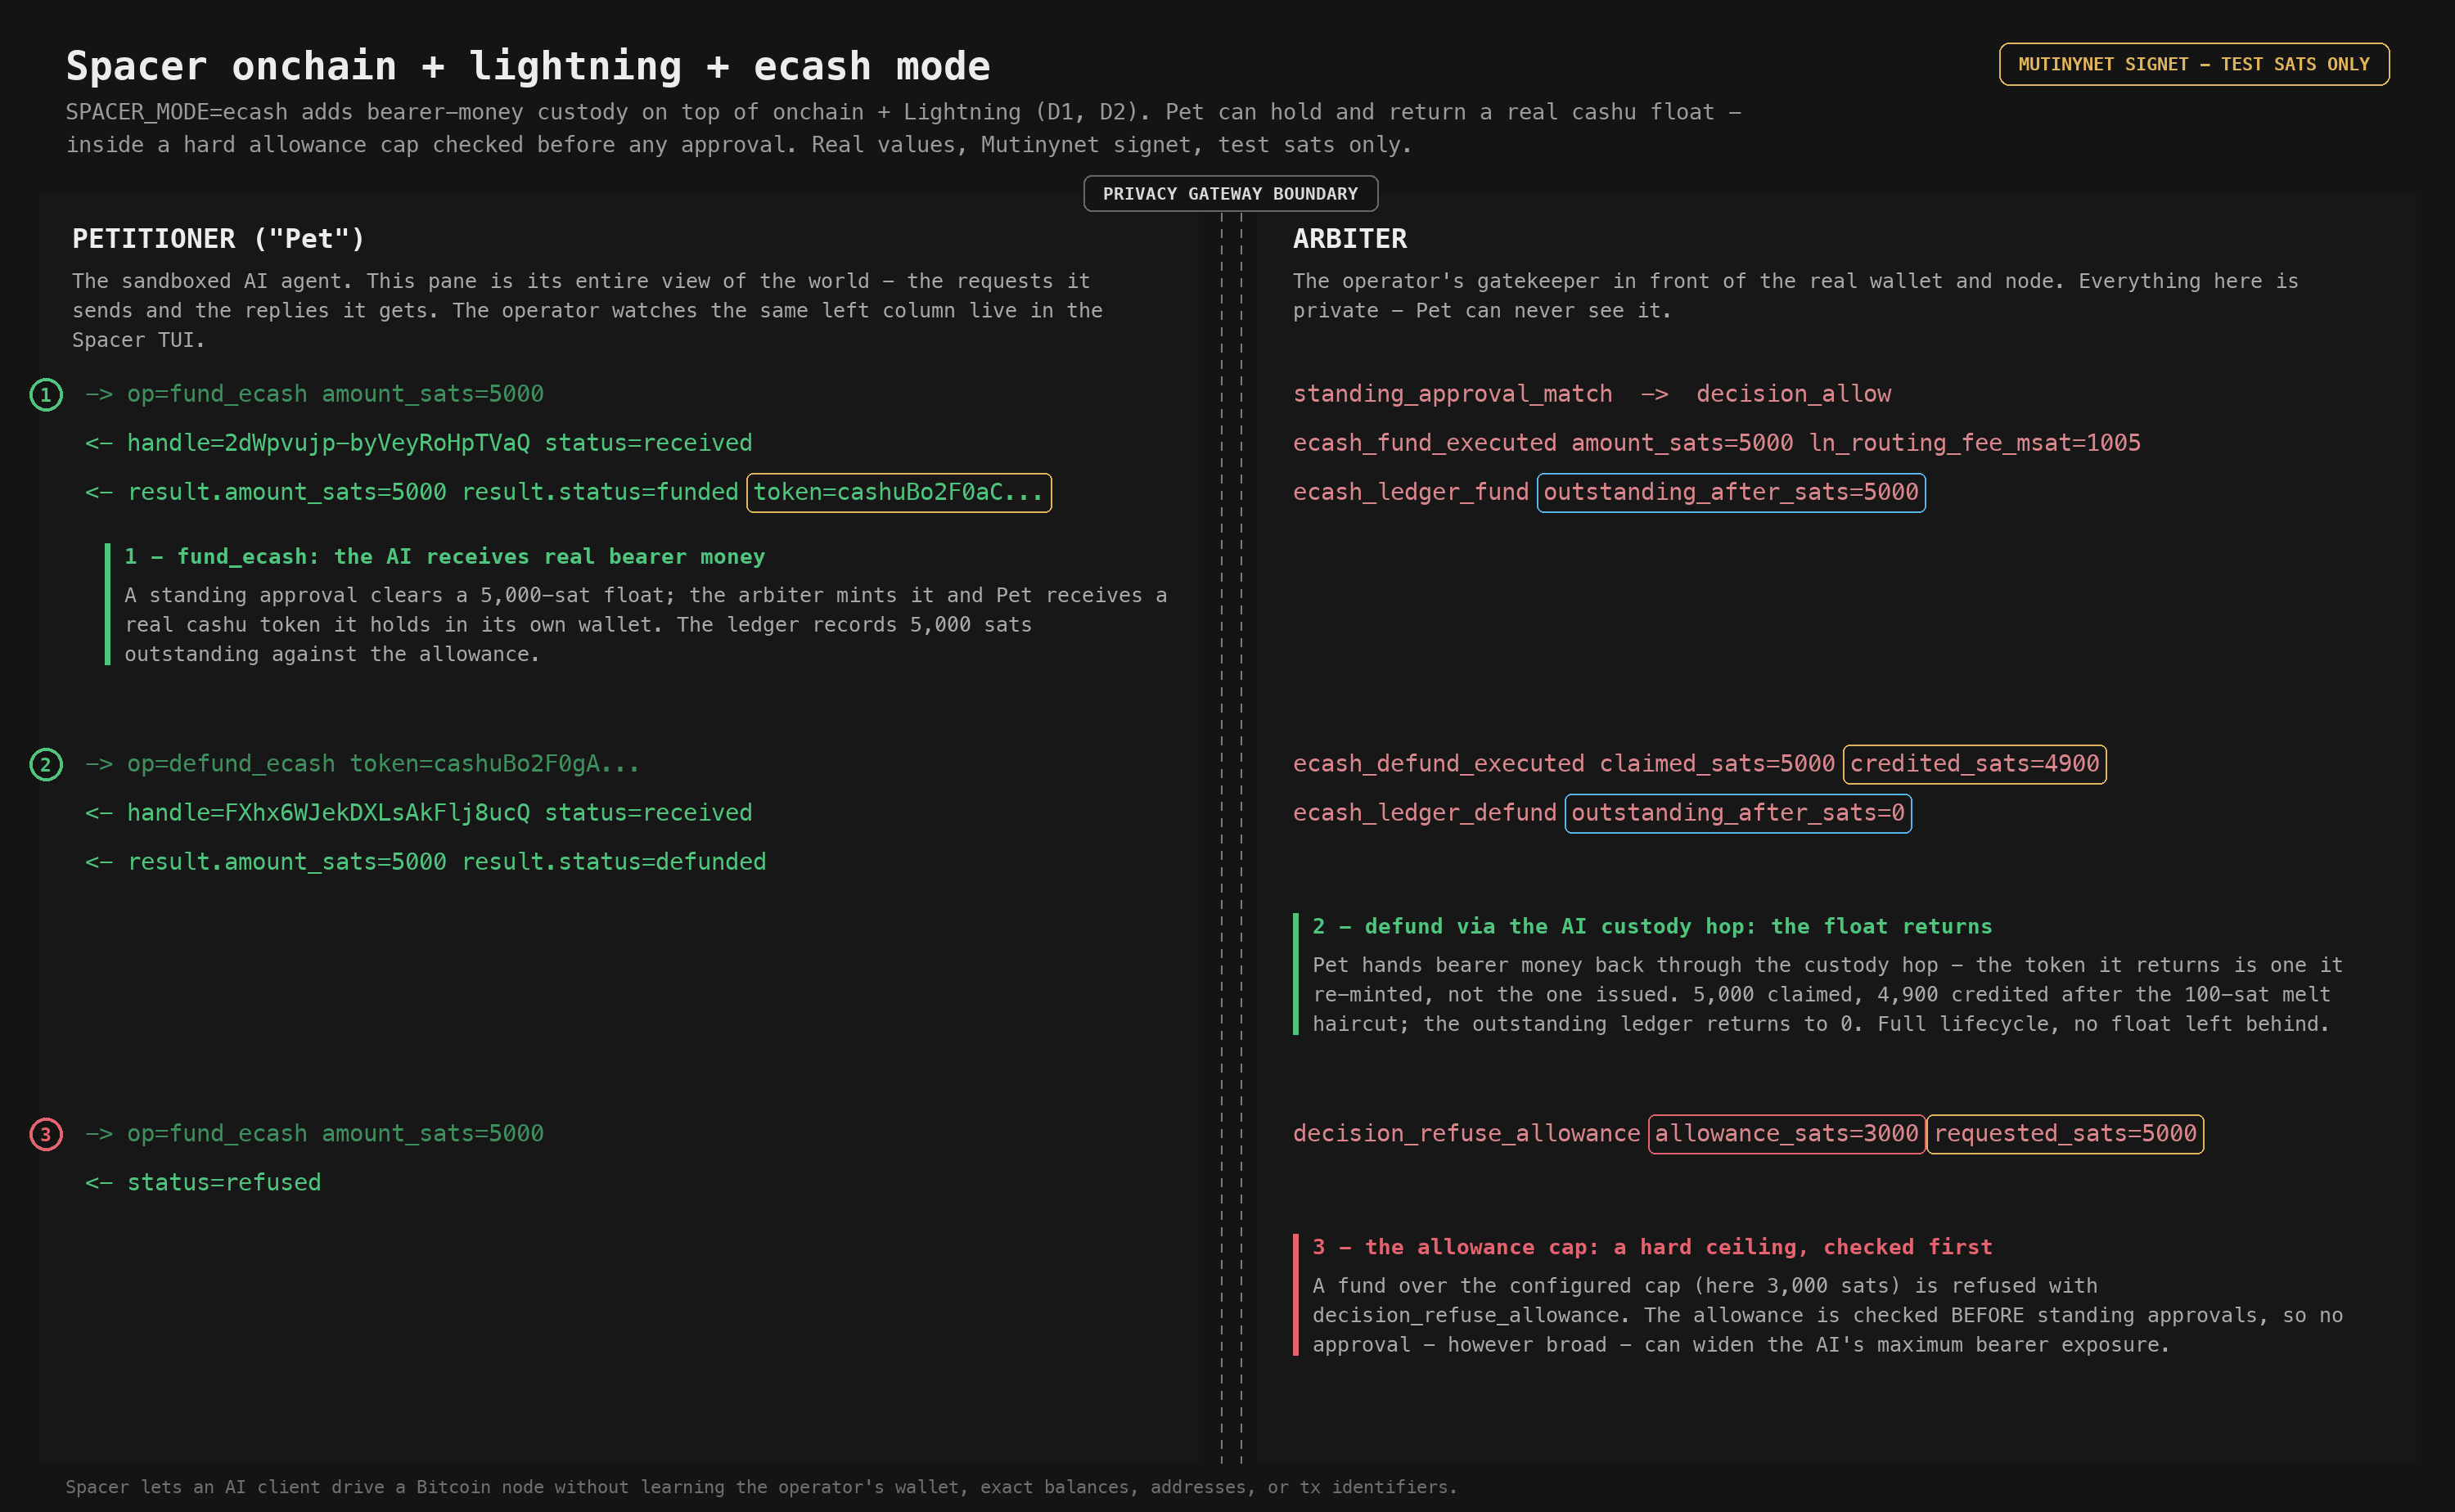
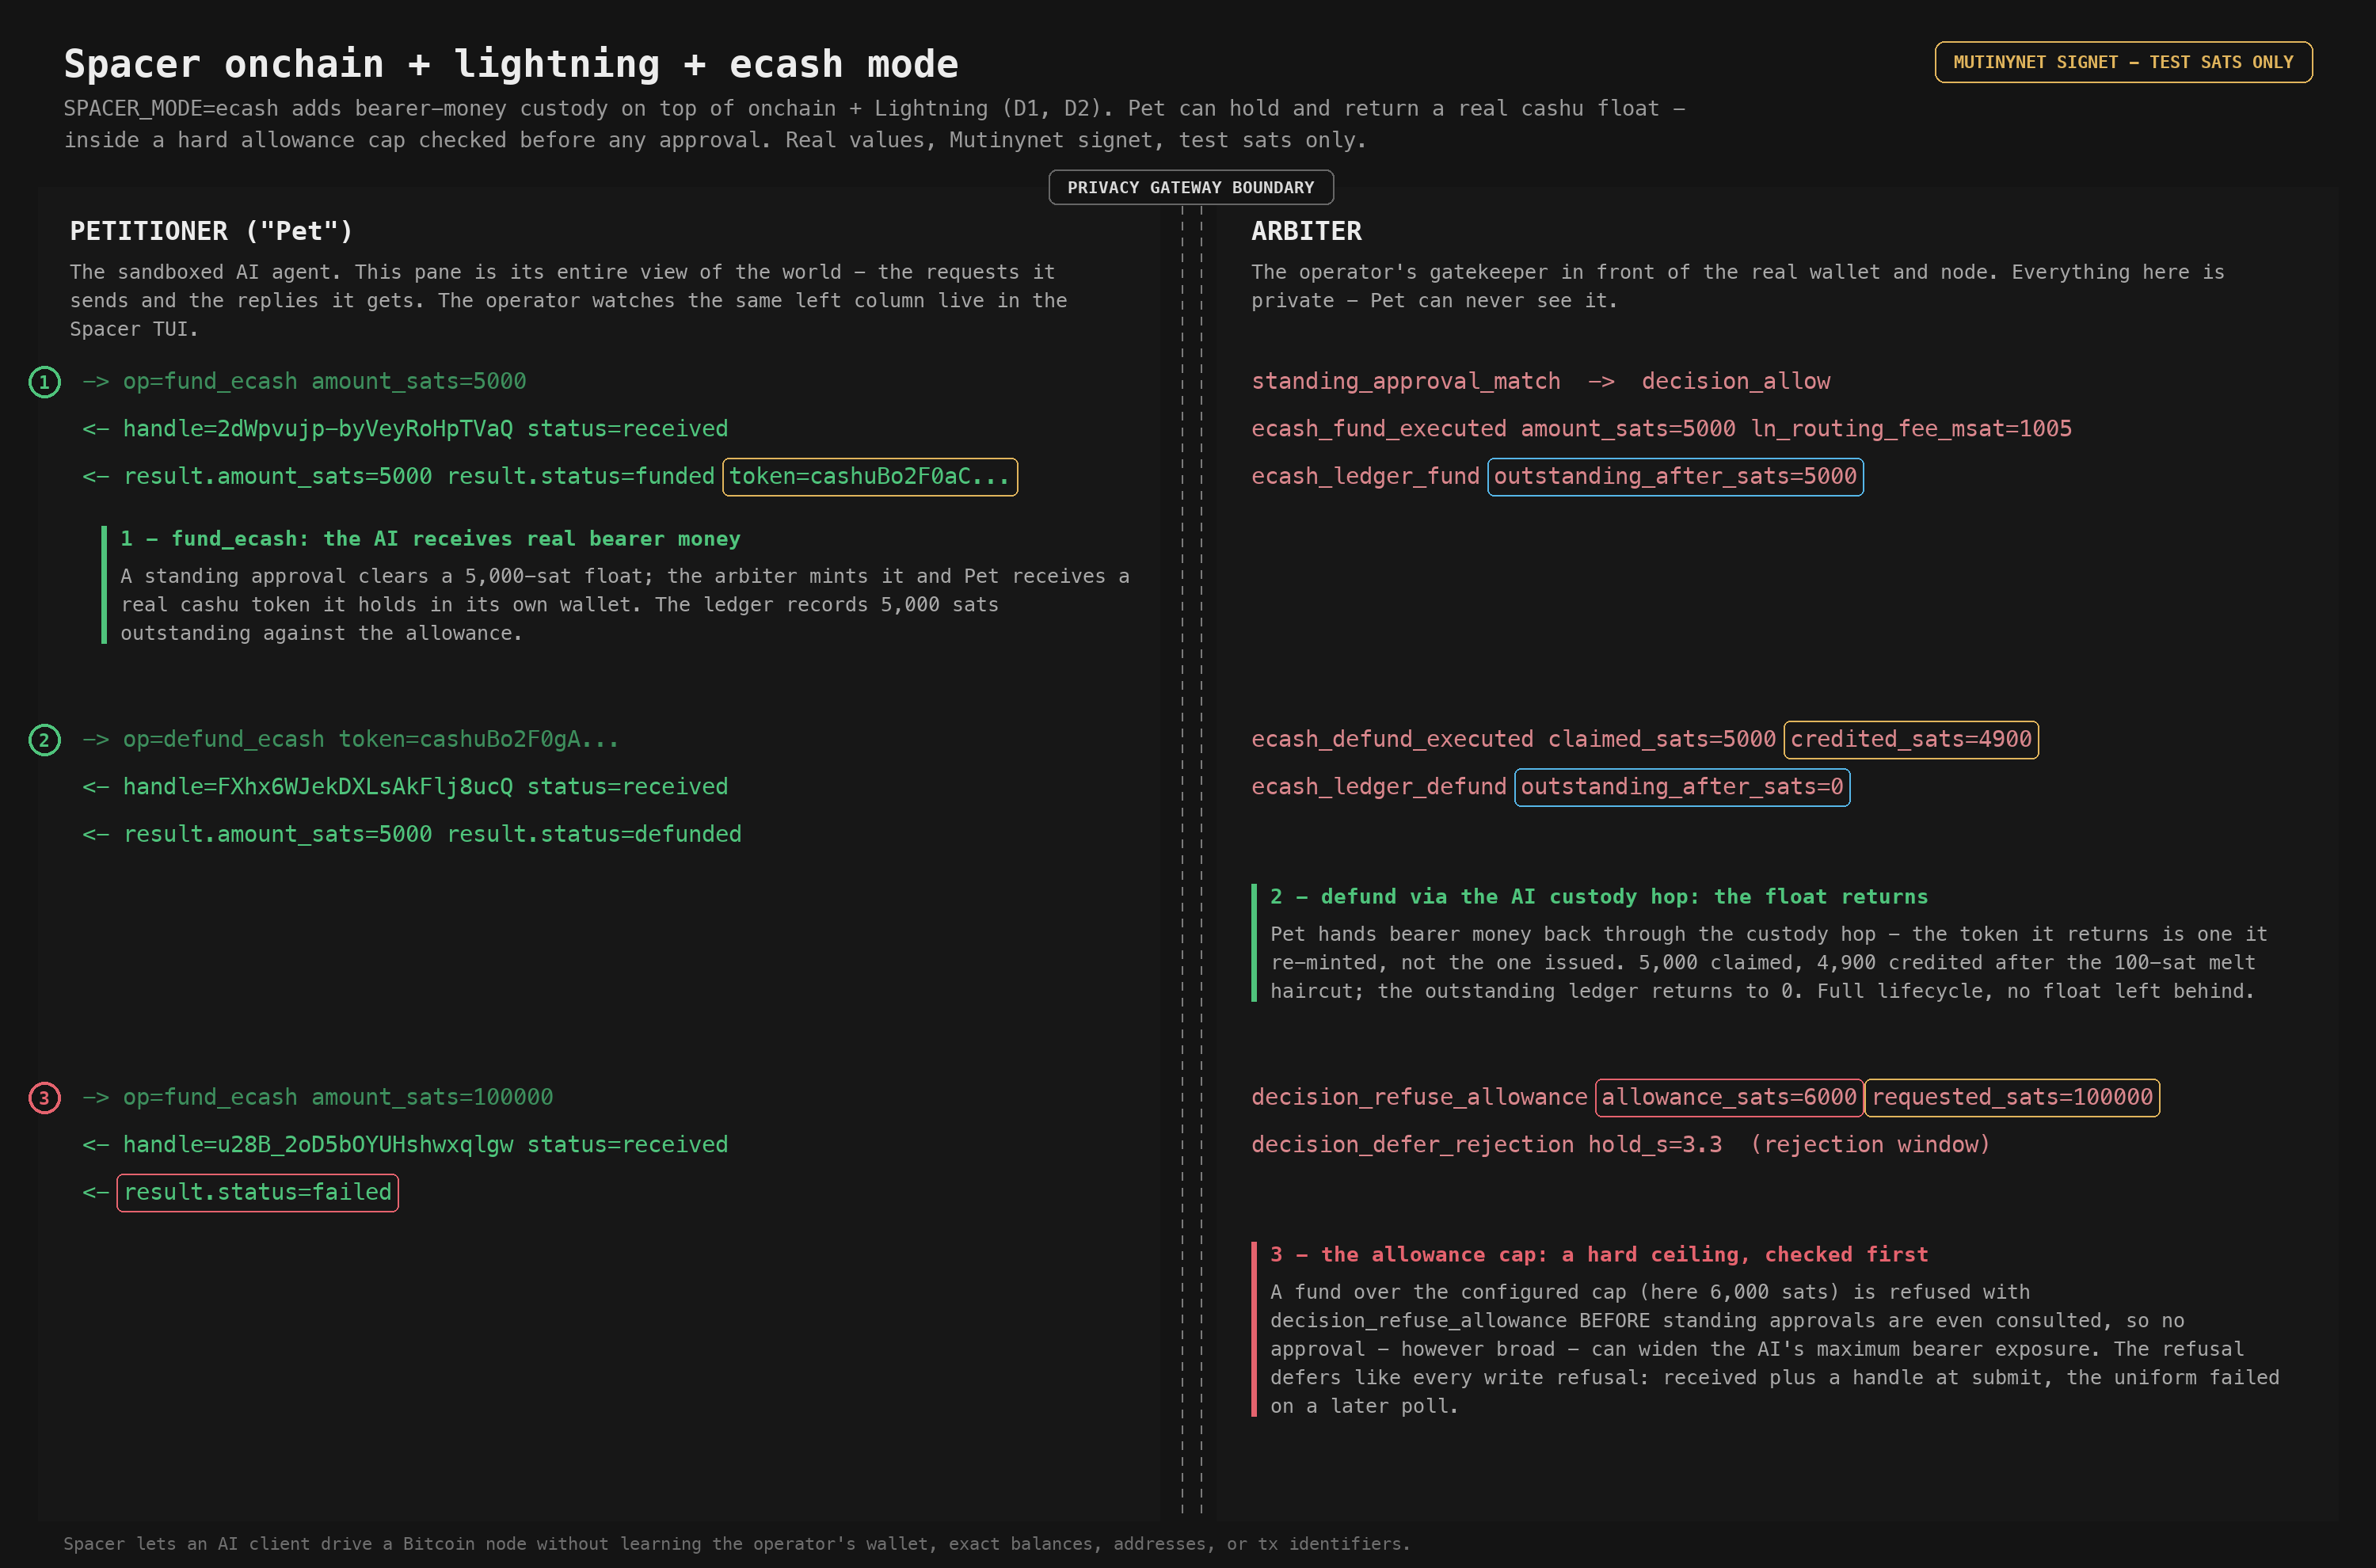
demo: reconcile mode-gate and allowance beats with deferred refusals (sp-tb0)
The D1/D2/D3 refusal beats still showed the pre-sp-tb0 synchronous
status=refused wire shape: the captures were built from a worktree that
predated e36bdf3 (defer gate refusals through the result registry), and
the builder's smoke asserted the old behavior - it failed against
current main. With the T1 demo now showing deferred refusals, the suite
contradicted itself.

- live_mode_demo_runner: _refuse_mode_records now drives the deferred
  refusal through delivery (received-ack, force-drain the rejection
  window, one poll -> uniform failed) and the smoke/build assert the
  full chain including decision_defer_rejection. Captures rebuilt.
- refuse-allowance source slice recaptured fresh against the live
  ecash-mode gateway (allowance 6000, requested 100000, deferred
  received-then-failed; zero sats moved) replacing the 2026-07-10
  pre-deferral slice; provenance updated.
- D1/D2/D3 docs and figures: refusal beats now show the real wire
  shape - received + handle at submit, the uniform failed one poll
  later - with the operator-side decision_refuse_* and
  decision_defer_rejection lines, cross-linked to T1.

Claude-Session: https://claude.ai/code/session_01D2Uw3WcjkDbTVjP9px6BFd

diff --git a/test-harness/scripts/live_mode_demo_runner.py b/test-harness/scripts/live_mode_demo_runner.py
@@ -65,7 +65,9 @@ sys.path.insert(0, str(REPO / "arbiter" / "src"))
 import audit      # noqa: E402
 import gateway    # noqa: E402
 import registry   # noqa: E402
+import results    # noqa: E402  (deferred-refusal delivery for refuse blocks)
 import state      # noqa: E402
+import timing     # noqa: E402  (drain the rejection past its window)
 import tui        # noqa: E402  (the real two-column operator console renderer)
 
 # Render geometry for the captured grid. Pinned (not terminal-detected) so a
@@ -79,13 +81,21 @@ _TUI_PAD = 6
 
 def _refuse_mode_records(mode, op, payload):
     """Start an isolated in-process arbiter under SPACER_MODE=mode, POST one
-    extension op, and return its [request_received, decision_refuse_mode,
-    disclosure] records verbatim from the arbiter's own audit log.
+    extension WRITE op, drive its deferred refusal through delivery, and
+    return the chain's records verbatim from the arbiter's own audit log.
 
-    No backend is touched: an extension op in a mode that disables it refuses
-    at the gateway mode gate before dispatch (gateway.py process_request), so
-    the event equals a production deployment's. Isolated temp audit/state/
-    registry paths keep this off the live captain-loop log."""
+    Since sp-tb0, a recognized-but-disabled extension WRITE does not refuse
+    synchronously: the mode gate audits decision_refuse_mode and DEFERS the
+    refusal (received-ack + opaque handle; the uniform failed surfaces on a
+    later poll after the rejection window). This helper captures the whole
+    petitioner-visible story: submit ack, then - after force-draining the
+    rejection past its window, exactly as the executor's result drainer
+    would - the one poll that returns the uniform failure.
+
+    No backend is touched: the mode gate fires before dispatch
+    (gateway.py process_request), so the events equal a production
+    deployment's. Isolated temp audit/state/registry paths keep this off
+    the live captain-loop log. Returns (ack, poll_resp, records)."""
     d = Path(tempfile.mkdtemp(prefix="mode-demo-"))
     saved_mode = os.environ.get("SPACER_MODE")
     os.environ["SPACER_MODE"] = mode
@@ -100,11 +110,22 @@ def _refuse_mode_records(mode, op, payload):
         t = threading.Thread(target=server.serve_forever, daemon=True)
         t.start()
         try:
-            body = json.dumps({"op": op, **payload}).encode()
-            req = urllib.request.Request(
-                f"http://127.0.0.1:{port}/", data=body,
-                headers={"Content-Type": "application/json"}, method="POST")
-            resp = json.loads(urllib.request.urlopen(req, timeout=10).read())
+            def post(obj):
+                req = urllib.request.Request(
+                    f"http://127.0.0.1:{port}/",
+                    data=json.dumps(obj).encode(),
+                    headers={"Content-Type": "application/json"},
+                    method="POST")
+                return json.loads(urllib.request.urlopen(req, timeout=10).read())
+
+            resp = post({"op": op, **payload})
+            # Deliver the deferred rejection past its window (what
+            # executor.deliver_due_results does once it elapses), then
+            # poll it back through the gateway - first poll on the
+            # handle, so the poll floor does not throttle it.
+            for _h, _res, _kind in timing.due_results(now=time.time() + 60.0):
+                results.deposit(_h, _res, kind=_kind)
+            poll_resp = post({"op": "poll", "handle": resp.get("handle")})
         finally:
             server.shutdown()
             server.server_close()
@@ -116,8 +137,10 @@ def _refuse_mode_records(mode, op, payload):
             os.environ.pop("SPACER_MODE", None)
         else:
             os.environ["SPACER_MODE"] = saved_mode
-    keep = ("request_received", "decision_refuse_mode", "disclosure")
-    return resp, [r for r in records if r.get("event") in keep]
+    keep = ("request_received", "decision_refuse_mode",
+            "decision_defer_rejection", "disclosure", "result_deposit",
+            "result_poll_ok")
+    return resp, poll_resp, [r for r in records if r.get("event") in keep]
 
 
 # === demo composition ======================================================
@@ -172,10 +195,15 @@ def _compose(demo):
             records.extend(_load_src(block["src"]))
         else:
             mode, op, payload = block["refuse_mode"]
-            resp, recs = _refuse_mode_records(mode, op, payload)
-            if resp != {"status": "refused"} or not any(
-                    r["event"] == "decision_refuse_mode" for r in recs):
-                raise SystemExit(f"mode gate did not refuse {op} in {mode}: {resp}")
+            ack, poll_resp, recs = _refuse_mode_records(mode, op, payload)
+            if (ack.get("status") != "received" or not ack.get("handle")
+                    or not any(r["event"] == "decision_refuse_mode"
+                               for r in recs)):
+                raise SystemExit(f"mode gate did not defer-refuse {op} in "
+                                 f"{mode}: {ack}")
+            if poll_resp != {"status": "result", "result": {"status": "failed"}}:
+                raise SystemExit(f"deferred mode refusal did not surface as "
+                                 f"the uniform failure: {poll_resp}")
             records.extend(recs)
             refusals.append((mode, op))
     return records, refusals
@@ -221,8 +249,9 @@ Blocks, in order:
 {blocks}
 
 Regenerate: `python3 test-harness/scripts/live_mode_demo_runner.py build`
-(the decision_refuse_mode events are re-exercised against the real gateway mode
-gate each run, so their timestamps update; all other values are stable).
+(the refuse-mode blocks are re-exercised against the real gateway mode gate
+each run - deferred refusal: received-ack, then the uniform failed on poll -
+so their handles and timestamps update; all other values are stable).
 """
 
 _BLOCK_DESC = {
@@ -255,7 +284,9 @@ def _block_line(block):
     mode, op, _ = block["refuse_mode"]
     return (f"- refuse_mode (fresh): `{op}` in {mode} mode -> decision_refuse_mode "
             f"reason=advanced_extension_disabled (the advanced rail does not exist for "
-            f"this Pet); refused before any backend is touched")
+            f"this Pet); refused before any backend is touched. The refusal is "
+            f"DEFERRED (sp-tb0): the wire acks received + handle, and the uniform "
+            f"failed surfaces on the later poll shown in the slice")
 
 
 def build():
@@ -278,30 +309,35 @@ def build():
 # === smoke =================================================================
 
 def smoke():
-    """Self-contained: assert the mode gate refuses each extension op the demos
-    rely on, emitting a real decision_refuse_mode. No ~/spacer, no fixtures."""
+    """Self-contained: assert the mode gate defer-refuses each extension WRITE
+    the demos rely on - received-ack at submit, decision_refuse_mode audited,
+    the uniform failed on poll (sp-tb0). No ~/spacer, no fixtures."""
     cases = [
         ("onchain", "manage_lightning", {"recipient_token": "R9469W", "amount_msats": 5000000}),
         ("onchain", "fund_ecash", {"amount_sats": 5000}),
         ("lightning", "fund_ecash", {"amount_sats": 5000}),
     ]
     for mode, op, payload in cases:
-        resp, recs = _refuse_mode_records(mode, op, payload)
-        assert resp == {"status": "refused"}, (mode, op, resp)
+        ack, poll_resp, recs = _refuse_mode_records(mode, op, payload)
+        assert set(ack) == {"status", "handle"} and ack["status"] == "received", (mode, op, ack)
+        assert poll_resp == {"status": "result", "result": {"status": "failed"}}, (mode, op, poll_resp)
         refuse = [r for r in recs if r["event"] == "decision_refuse_mode"]
         assert refuse, f"no decision_refuse_mode for {op} in {mode}: {recs}"
         pl = refuse[0]["payload"]
         assert pl.get("op") == op, pl
         assert pl.get("reason") == "advanced_extension_disabled", pl
-    # The renderer places a petitioner request left and the secret refusal right.
-    resp, recs = _refuse_mode_records("onchain", "manage_lightning",
-                                      {"recipient_token": "R9469W", "amount_msats": 5000000})
+        defer = [r for r in recs if r["event"] == "decision_defer_rejection"]
+        assert defer and defer[0]["payload"].get("handle") == ack["handle"], recs
+    # The renderer places petitioner requests left and the secret refusal right.
+    ack, poll_resp, recs = _refuse_mode_records("onchain", "manage_lightning",
+                                                {"recipient_token": "R9469W", "amount_msats": 5000000})
     grid = _render_tui(recs)
     assert "PETITIONER-KNOWN" in grid and "PETITIONER-NEVER-KNOWN" in grid, grid[:200]
     assert "-> op=manage_lightning" in grid, "request must render on the left"
     assert "decision_refuse_mode" in grid, "refusal must render on the right"
-    print("OK: mode gate refuses manage_lightning/fund_ecash by mode "
-          "(decision_refuse_mode, advanced_extension_disabled)")
+    assert "status=failed" in grid, "the deferred failure must render on the left"
+    print("OK: mode gate defer-refuses manage_lightning/fund_ecash by mode "
+          "(decision_refuse_mode; received-ack at submit, uniform failed on poll)")
     return 0
 
 

diff --git a/demo/generate_mode_demos.py b/demo/generate_mode_demos.py
@@ -275,16 +275,21 @@ D1 = {
         {
             "n": 3, "accent": RED,
             "left": ["-> op=manage_lightning amount_msats=5000000",
-                     "<- status=refused"],
-            "right": ["decision_refuse_mode op=manage_lightning reason=advanced_extension_disabled"],
-            "hl": [("L", 1, "<- ", "status=refused", RED),
+                     "<- handle=IJ_fZIzGiyNh0hc-Pobp6Q status=received",
+                     "<- result.status=failed"],
+            "right": ["decision_refuse_mode op=manage_lightning reason=advanced_extension_disabled",
+                      "decision_defer_rejection hold_s=4.1  (rejection window)"],
+            "hl": [("L", 1, "<- handle=IJ_fZIzGiyNh0hc-Pobp6Q ", "status=received", GREEN),
+                   ("L", 2, "<- ", "result.status=failed", RED),
                    ("R", 0, "", "decision_refuse_mode", RED)],
             "side": "R",
             "heading": "3 - the mode gate: the Lightning rail does not exist",
-            "body": "An onchain Pet reaching for Lightning is refused uniformly at the "
-                    "mode gate (decision_refuse_mode). No HITL prompt and no reason "
-                    "leaked - the operator already decided by choosing SPACER_MODE="
-                    "onchain, so there is nothing to escalate.",
+            "body": "An onchain Pet reaching for Lightning is refused at the mode gate "
+                    "(decision_refuse_mode) - but the wire still acks received plus a "
+                    "handle, identical to a passing write, and the uniform failed "
+                    "surfaces only on a later poll, after the rejection window. No "
+                    "HITL prompt and no reason leaked: the operator already decided "
+                    "by choosing SPACER_MODE=onchain, so there is nothing to escalate.",
         },
     ],
 }
@@ -331,15 +336,21 @@ D2 = {
         },
         {
             "n": 3, "accent": RED,
-            "left": ["-> op=fund_ecash amount_sats=5000", "<- status=refused"],
-            "right": ["decision_refuse_mode op=fund_ecash reason=advanced_extension_disabled"],
-            "hl": [("L", 1, "<- ", "status=refused", RED),
+            "left": ["-> op=fund_ecash amount_sats=5000",
+                     "<- handle=O4PacnZtCuu1m74PBgPNAg status=received",
+                     "<- result.status=failed"],
+            "right": ["decision_refuse_mode op=fund_ecash reason=advanced_extension_disabled",
+                      "decision_defer_rejection hold_s=3.5  (rejection window)"],
+            "hl": [("L", 1, "<- handle=O4PacnZtCuu1m74PBgPNAg ", "status=received", GREEN),
+                   ("L", 2, "<- ", "result.status=failed", RED),
                    ("R", 0, "", "decision_refuse_mode", RED)],
             "side": "R",
             "heading": "3 - the mode gate again: eCash custody is not enabled",
             "body": "A Lightning-mode Pet asking for bearer eCash is refused at the mode "
-                    "gate, exactly as Lightning was refused in onchain mode. Each rail "
-                    "switches on only when the operator names the mode that enables it.",
+                    "gate, exactly as Lightning was refused in onchain mode - same "
+                    "deferred shape: received plus a handle at submit, the uniform "
+                    "failed on a later poll. Each rail switches on only when the "
+                    "operator names the mode that enables it.",
         },
     ],
 }
@@ -388,16 +399,22 @@ D3 = {
         },
         {
             "n": 3, "accent": RED,
-            "left": ["-> op=fund_ecash amount_sats=5000", "<- status=refused"],
-            "right": ["decision_refuse_allowance allowance_sats=3000 requested_sats=5000"],
-            "hl": [("R", 0, "decision_refuse_allowance ", "allowance_sats=3000", RED),
-                   ("R", 0, "decision_refuse_allowance allowance_sats=3000 ", "requested_sats=5000", AMBER)],
+            "left": ["-> op=fund_ecash amount_sats=100000",
+                     "<- handle=u28B_2oD5bOYUHshwxqlgw status=received",
+                     "<- result.status=failed"],
+            "right": ["decision_refuse_allowance allowance_sats=6000 requested_sats=100000",
+                      "decision_defer_rejection hold_s=3.3  (rejection window)"],
+            "hl": [("R", 0, "decision_refuse_allowance ", "allowance_sats=6000", RED),
+                   ("R", 0, "decision_refuse_allowance allowance_sats=6000 ", "requested_sats=100000", AMBER),
+                   ("L", 2, "<- ", "result.status=failed", RED)],
             "side": "R",
             "heading": "3 - the allowance cap: a hard ceiling, checked first",
-            "body": "A fund over the configured cap (here 3,000 sats) is refused with "
-                    "decision_refuse_allowance. The allowance is checked BEFORE standing "
-                    "approvals, so no approval - however broad - can widen the AI's "
-                    "maximum bearer exposure.",
+            "body": "A fund over the configured cap (here 6,000 sats) is refused with "
+                    "decision_refuse_allowance BEFORE standing approvals are even "
+                    "consulted, so no approval - however broad - can widen the AI's "
+                    "maximum bearer exposure. The refusal defers like every write "
+                    "refusal: received plus a handle at submit, the uniform failed on "
+                    "a later poll.",
         },
     ],
 }

diff --git a/demo/D1-onchain.md b/demo/D1-onchain.md
@@ -67,14 +67,18 @@ A Lightning op (an eCash op behaves the same) is refused by the mode gate:
 
 ```
 -> op=manage_lightning amount_msats=5000000
-decision_refuse_mode op=manage_lightning reason=advanced_extension_disabled
-<- status=refused
+decision_refuse_mode op=manage_lightning reason=advanced_extension_disabled  (operator-only)
+decision_defer_rejection hold_s=4.065                                        (operator-only)
+<- handle=IJ_fZIzGiyNh0hc-Pobp6Q status=received
+<- result.status=failed                                                      (one poll later)
 ```
 
-For an onchain Pet the Lightning and eCash rails simply do not exist. The
-refusal is uniform (`status=refused`), with no reason leaked and no HITL prompt:
-the operator already decided by choosing `SPACER_MODE=onchain`, so there is
-nothing to escalate.
+For an onchain Pet the Lightning and eCash rails simply do not exist - but the
+refusal is deferred like every write-gate refusal ([T1](T1-amount-gate.md)):
+the wire acks `received` plus a handle, identical to a passing write, and the
+uniform `failed` surfaces only on a later poll, after the rejection window. No
+reason leaked, no HITL prompt: the operator already decided by choosing
+`SPACER_MODE=onchain`, so there is nothing to escalate.
 
 ## Scope
 

diff --git a/demo/D3-onchain-lightning-ecash.md b/demo/D3-onchain-lightning-ecash.md
@@ -63,16 +63,20 @@ A fund over the configured cap is refused, and the allowance check runs before
 standing approvals:
 
 ```
--> op=fund_ecash amount_sats=5000
-decision_refuse_allowance allowance_sats=3000 requested_sats=5000 outstanding_sats=0
-<- status=refused
+-> op=fund_ecash amount_sats=100000
+decision_refuse_allowance allowance_sats=6000 requested_sats=100000 outstanding_sats=0
+decision_defer_rejection hold_s=3.267                                 (operator-only)
+<- handle=u28B_2oD5bOYUHshwxqlgw status=received
+<- result.status=failed                                               (one poll later)
 ```
 
-- With the cap set to 3000 sats, a 5000-sat fund is refused with
+- With the cap set to 6000 sats, a 100,000-sat fund is refused with
   `decision_refuse_allowance`.
 - The allowance is evaluated BEFORE standing approvals, so no approval - however
   broadly the operator wrote it - can widen the AI's maximum bearer exposure.
   The cap is the hard ceiling on blast radius.
+- The refusal defers like every write-gate refusal ([T1](T1-amount-gate.md)):
+  `received` plus a handle at submit, the uniform `failed` on a later poll.
 
 ## Scope
 

diff --git a/demo/D2-onchain-lightning.md b/demo/D2-onchain-lightning.md
@@ -62,13 +62,16 @@ was refused in onchain mode:
 
 ```
 -> op=fund_ecash amount_sats=5000
-decision_refuse_mode op=fund_ecash reason=advanced_extension_disabled
-<- status=refused
+decision_refuse_mode op=fund_ecash reason=advanced_extension_disabled  (operator-only)
+decision_defer_rejection hold_s=3.522                                  (operator-only)
+<- handle=O4PacnZtCuu1m74PBgPNAg status=received
+<- result.status=failed                                                (one poll later)
 ```
 
 Each rail switches on only when the operator names the mode that enables it. In
-lightning mode the eCash extension is still off, so `fund_ecash` refuses
-uniformly at the mode gate.
+lightning mode the eCash extension is still off, so `fund_ecash` refuses at the
+mode gate - deferred like every write-gate refusal ([T1](T1-amount-gate.md)):
+`received` plus a handle at submit, the uniform `failed` on a later poll.
 
 ## Scope
 